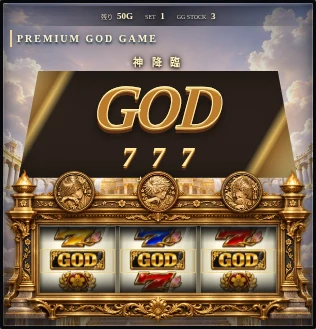
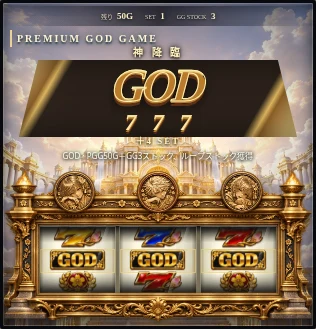
軌跡のGOD・SGG告知を獲得セット数まで液晶内へ収める

Changed region(s): [[0.057, 0.1216, 0.9399, 0.5775]]

diff --git a/src/web/public/kiseki-trial.css b/src/web/public/kiseki-trial.css
@@ -131,3 +131,8 @@
 @media(prefers-reduced-motion:reduce){.kt-root .kt-award-digits b{animation:none!important}}
 @media(max-height:500px) and (min-width:600px){.kt-root[data-focus=true] .kt-award-digits{position:absolute;right:0;bottom:0;gap:5px}.kt-root[data-focus=true] .kt-award-digits b{font-size:18px}.kt-root[data-focus=true] .gt-lcd-award[data-kind=god] strong{font-size:42px}}
 .kt-stop-notes{display:flex;flex-wrap:wrap;gap:6px 16px;font-size:12px;color:#ddcda7}
+/* 獲得セット数まで液晶内へ収める。狭い横画面では重複する装飾数字を省く。 */
+.kt-root .gt-display .gt-lcd-award{flex:0 1 auto;min-height:0;gap:1px;margin:1px auto}
+.kt-root .gt-lcd-award[data-kind=god] strong{font-size:clamp(34px,12vw,76px)}
+.kt-root .kt-award-digits b{font-size:clamp(20px,6vw,36px)}
+@media(max-height:500px) and (min-width:600px){.kt-root[data-focus=true] .kt-award-digits{display:none}.kt-root[data-focus=true] .gt-display .gt-lcd-award{gap:0;margin:0}.kt-root[data-focus=true] .gt-lcd-award strong,.kt-root[data-focus=true] .gt-lcd-award[data-kind=god] strong{font-size:28px}.kt-root[data-focus=true] .gt-lcd-award small{font-size:6px;letter-spacing:2px}.kt-root[data-focus=true] .gt-lcd-award>span{font-size:7px}}

diff --git a/docs/work-notes.md b/docs/work-notes.md
@@ -1,6 +1,8 @@
 # 作業の引き継ぎメモ
 
 ## 2026年11月5日：軌跡の液晶・環境・音・停止制御をまとめて改善
+- 告知の枠内確認：GOD/SGGの獲得セット数が三神/リール枠より上で液晶内に収まることを、Chromium/WebKitとも320/390/844/1440px・通常/集中で確認。静止見本5点を再撮影。追加修正は軌跡CSSだけでTS/試験/音源/配信画像に変更なし、成功済みの最終型/TSビルドを再利用しpublic配布を更新。試験サーバーを停止し、この修正版をcommitして全件を最初から実行する。
+- 表示見本の追加指摘：f68dc7bで全件を起動した直後、GODの獲得セット数が三神/リール枠へ重なる見本を発見したため、その全件はSIGINTで中止し成功には数えない。告知の余白/文字を縮め、狭い横向き集中時は重複する装飾777だけ省略し、獲得セット数を優先する。GOD/SGGの確定後を4幅・通常/集中で境界確認し、修正後の固定状態で全件を実行し直す。
 - 固定前の完了確認：実装5735180で最終型/ビルド（public配布コピー含む）が成功。追加の整合性2件を含む軌跡31件と、変更前後の関連8ファイル78件のうち残る非変更範囲49件が成功。WebKitは全本体項目・39入力と復帰操作が成功。Chromiumは全6押し順/区間素材/BGMなどの本体項目に加え、最終版の発光の自然な遷移/GOD・SGG確定数字/15入力/補助/省演出/4幅/財布不変と復帰操作が成功。両方JS例外0。WebKitの有限遷移の最終位置確認と自然な時間経過は区別する。確認用画像を保存後に試験サーバーを停止し、製品/試験/画像/依存関係を固定して全件へ進む。
 - ブラウザー経過：最終版のWebKit本体確認は成功（入力位置39件、全6押し順、再読込、150P/誤順0P、3区間画像/BGM、音量再利用、BGM単独OFF/非表示/ミュート、三神、省演出、4幅44px、財布不変、JS例外0）。復帰検証で409の通信モックがService Workerに迂回されたため、検証コンテキストでService Workerをblockし、実際に409を返したことも確認する方式へ修正。製品の送信/抽選コードは変更しない。最終型/ビルドは成功済み。
 - WebKit環境の切分け：発光トリガー/通常motion/full画質/可視状態/正しいCSS一致を確認したが、WPE WebKitのCSSTransitionがrunning/currentTime=0のまま進まず、有限アニメーションをfinishするとopacityが0→1になった（/tmp/kiseki-css-finish-probe.log）。製品の演出時間は変えず、WebKitの検証側だけ発光の有限遷移を完了位置へ進め、発生条件と最終表示を確認する。Chromiumは自然な時間経過で確認する。WebKitの時間方向の描画と実iPhone/Androidの打感・聴感は確認済みとしない。
